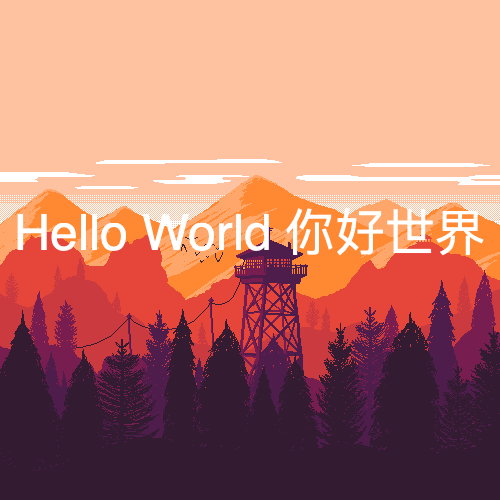
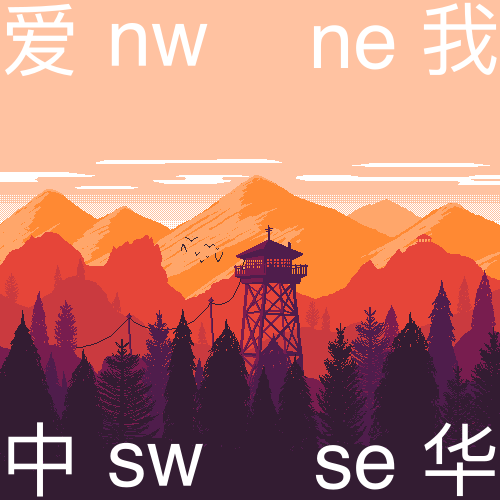
chore: update

diff --git a/index.js b/index.js
@@ -4,14 +4,48 @@ const svgtxt = `<?xml version="1.0" standalone="no"?>
   height="500"
   width="500">
   <text
-  text-anchor="middle"
-  x="50%" y="50%"
+  x="0" y="0"
   fill="white"
-  font-size="50px"
+  text-anchor="start"
+  font-size="80px"
+  baseline-shift="-85%"
   font-family="Open Sans"
-  font-style="Medium"
   >
-  Hello World 你好世界
+  爱 nw
+  </text>
+
+  <text
+  x="500" y="0"
+  fill="white"
+  text-anchor="end"
+  font-size="80px"
+  baseline-shift="-85%"
+  font-family="Open Sans"
+  >
+  ne 我
+  </text>
+
+  <text
+  x="0" y="500"
+  fill="white"
+  text-anchor="start"
+  font-size="80px"
+  baseline-shift="15%"
+  font-family="Open Sans"
+  >
+  中 sw
+  </text>
+
+  <text
+  x="500" y="500"
+  fill="white"
+  text-anchor="end"
+  font-size="80px"
+  baseline-shift="15%"
+  line-height="10px"
+  font-family="Open Sans"
+  >
+  se 华
   </text>
 </svg>`;
 
